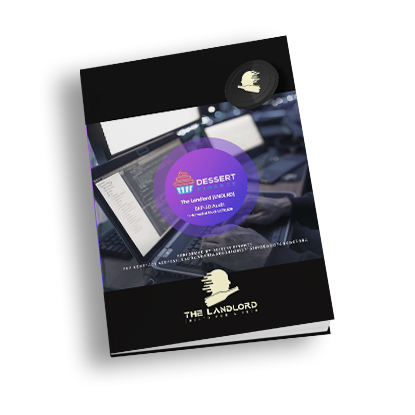
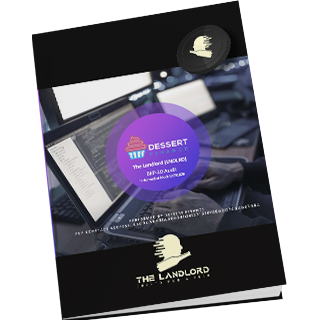
team

diff --git a/pages/team.jsx b/pages/team.jsx
@@ -1,0 +1,52 @@
+import Link from 'next/link';
+import HeadTag from '../components/HeadTag';
+import teamMembers from '../data/team';
+
+const Team = () => {
+	return (
+		<>
+			<HeadTag title={`Team`} />
+			<section className="page container">
+				<h1 className="page-title text-center">Team</h1>
+				<div className="page-desc page-desc-limit text-center">
+					The Landlord has a multi skilled team of technology professionals and successful businesses owners. They bring a wealth of experience, endless energy, ambition
+					and desire to the project.
+				</div>
+
+				<div className="row">
+					{teamMembers.map((item, index) => (
+						<div key={index} className="col-sm-6 col-md-4 col-lg-3">
+							<div className="team-item">
+								<img className="team-img" src={`/files/img/team/${item.img ? item.name.toLowerCase() : 'default'}.jpg`} alt={item.name + ' - The Landlord'} />
+								<h3 className="team-name">{item.name}</h3>
+								<p className="team-title">{item.title}</p>
+
+								<div className="team-social">
+									{item.twitter && (
+										<Link href={item.twitter}>
+											<a className="team-link" target="_blank" rel="noreferrer">
+												<svg xmlns="http://www.w3.org/2000/svg" width="16" height="16" fill="currentColor" viewBox="0 0 16 16">
+													<path d="M5.026 15c6.038 0 9.341-5.003 9.341-9.334 0-.14 0-.282-.006-.422A6.685 6.685 0 0 0 16 3.542a6.658 6.658 0 0 1-1.889.518 3.301 3.301 0 0 0 1.447-1.817 6.533 6.533 0 0 1-2.087.793A3.286 3.286 0 0 0 7.875 6.03a9.325 9.325 0 0 1-6.767-3.429 3.289 3.289 0 0 0 1.018 4.382A3.323 3.323 0 0 1 .64 6.575v.045a3.288 3.288 0 0 0 2.632 3.218 3.203 3.203 0 0 1-.865.115 3.23 3.23 0 0 1-.614-.057 3.283 3.283 0 0 0 3.067 2.277A6.588 6.588 0 0 1 .78 13.58a6.32 6.32 0 0 1-.78-.045A9.344 9.344 0 0 0 5.026 15z" />
+												</svg>
+											</a>
+										</Link>
+									)}
+									{item.linkedin && (
+										<Link href={item.linkedin}>
+											<a className="team-link" target="_blank" rel="noreferrer">
+												<svg xmlns="http://www.w3.org/2000/svg" width="16" height="16" fill="currentColor" viewBox="0 0 14 14">
+													<path d="M0.603938 4.80779H3.41678V13.2725H0.603938V4.80779ZM2.02919 0.727417C1.06647 0.727417 0.4375 1.35945 0.4375 2.18901C0.4375 3.00151 1.04806 3.65192 1.99237 3.65192H2.01031C2.99144 3.65192 3.60244 3.00148 3.60244 2.18901C3.58403 1.35945 2.99147 0.727417 2.02919 0.727417ZM10.3231 4.60895C8.83 4.60895 8.16109 5.4302 7.78794 6.00614V4.80779H4.97425C5.0115 5.60189 4.97425 13.2725 4.97425 13.2725H7.78794V8.54523C7.78794 8.29204 7.80634 8.03979 7.88037 7.85842C8.08409 7.35298 8.54703 6.82957 9.32356 6.82957C10.3424 6.82957 10.7493 7.60617 10.7493 8.74357V13.2725H13.5625V8.41867C13.5625 5.8187 12.1749 4.60895 10.3231 4.60895Z" />
+												</svg>
+											</a>
+										</Link>
+									)}
+								</div>
+							</div>
+						</div>
+					))}
+				</div>
+			</section>
+		</>
+	);
+};
+export default Team;

diff --git a/pages/audit.jsx b/pages/audit.jsx
@@ -1,25 +1,25 @@
 import Link from 'next/link';
 import HeadTag from '../components/HeadTag';
 
-const Whitepaper = () => {
+const Audit = () => {
 	return (
 		<>
-			<HeadTag title={`Whitepaper`} />
+			<HeadTag title={`Audit`} />
 			<section className="page page-whitepaper container">
 				<div className="row align-items-center my-auto text-center text-md-start">
 					<div className="col-md-6 mb-5 mb-md-0">
-						<h1 className="page-title">Whitepaper</h1>
-						<div className="page-desc">Download the latest version of our whitepaper.</div>
+						<h1 className="page-title">Audit</h1>
+						<div className="page-desc">The Landlord Token audit performed by Dessert Finance.</div>
 						<Link href="/">
 							<a className="btn btn-brand">Download</a>
 						</Link>
 					</div>
 					<div className="col-md-6 text-center">
-						<img className="page-whitepaper-img" width="320" height="320" src="/files/img/certs/whitepaper.png" alt="Landlord Whitepaper" />
+						<img className="page-whitepaper-img" width="320" height="320" src="/files/img/certs/audit.png" alt="Landlord Whitepaper" />
 					</div>
 				</div>
 			</section>
 		</>
 	);
 };
-export default Whitepaper;
+export default Audit;

diff --git a/data/team.jsx b/data/team.jsx
@@ -1,0 +1,54 @@
+const teamMembers = [
+	{
+		name: 'Fowler',
+		title: 'Co-Founder - Lead Dev',
+		twitter: 'https://twitter.com/',
+		linkedin: 'https://linkedin.com/in/jfowler1234',
+		img: true,
+	},
+	{
+		name: 'Fab',
+		title: 'Co-Founder - VP of Operations',
+		twitter: 'https://twitter.com/',
+		linkedin: 'https://linkedin.com/in/fabio-vincenti-5a99b614',
+		img: true,
+	},
+	{
+		name: 'Harry',
+		title: 'Crypto Analyst and Pub SME',
+		twitter: false,
+		linkedin: 'http://linkedin.com/in/harry-dennison-576458100',
+		img: true,
+	},
+	{
+		name: 'Adrian',
+		title: 'Director of Content',
+		twitter: 'https://twitter.com/adriancdesigns',
+		linkedin: 'http://linkedin.com/in/adrian-cliffe-46496820a',
+		img: true,
+	},
+	{
+		name: 'Alan',
+		title: 'Head of Logistics',
+		twitter: false,
+		linkedin: false,
+		img: true,
+	},
+
+	{
+		name: 'Alessandro Dunninio',
+		title: 'Community Manager',
+		twitter: 'https://twitter.com/alexdlish',
+		linkedin: false,
+		img: false,
+	},
+	{
+		name: 'Jimmy',
+		title: 'Chief Financial Officer',
+		twitter: 'https://twitter.com/SilverX2000',
+		linkedin: false,
+		img: false,
+	},
+];
+
+export default teamMembers;

diff --git a/assets/scss/pages/_team.scss b/assets/scss/pages/_team.scss
@@ -1,8 +1,9 @@
 .team {
 	&-list {
 	}
+
 	&-item {
-		margin-bottom: 4rem;
+		margin-top: 4rem;
 		text-align: center;
 	}
 	&-img {
@@ -18,9 +19,17 @@
 		font-size: 1.125rem;
 	}
 	&-title {
-		font-size: 0.875rem;
-		margin-bottom: 0.5rem;
+		font-size: 0.75rem;
+		opacity: 0.6;
+		margin-bottom: 0.25rem;
 	}
 	&-link {
+		opacity: 0.6;
+		&:first-child {
+			margin-right: 0.75rem;
+		}
+		&:hover {
+			opacity: 1;
+		}
 	}
 }

diff --git a/assets/scss/layout/_page.scss b/assets/scss/layout/_page.scss
@@ -1,3 +1,24 @@
 .page {
 	flex-grow: 1;
+	padding-top: 8rem;
+	padding-bottom: 8rem;
+
+	&-title {
+		font-weight: 800;
+		font-size: 3rem;
+		text-transform: capitalize;
+		color: inherit;
+	}
+
+	&-desc {
+		line-height: 1.7;
+		margin-bottom: 2.5rem;
+		color: #ccc;
+
+		&-limit {
+			width: 38rem;
+			max-width: 100%;
+			margin: 0 auto 0;
+		}
+	}
 }

diff --git a/assets/scss/main.scss b/assets/scss/main.scss
@@ -24,7 +24,6 @@
 @import 'sections/home/contract';
 @import 'sections/home/tokenomics';
 @import 'sections/home/pubs';
-@import 'sections/home/team';
 @import 'sections/home/beers';
 @import 'sections/home/store';
 @import 'sections/home/pos';
@@ -32,3 +31,4 @@
 
 @import 'pages/home';
 @import 'pages/whitepaper';
+@import 'pages/team';

diff --git a/assets/scss/pages/_whitepaper.scss b/assets/scss/pages/_whitepaper.scss
@@ -1,19 +1,4 @@
 .page-whitepaper {
-	padding-top: 8rem;
-	padding-bottom: 8rem;
-
-	&-title {
-		font-weight: 800;
-		font-size: 3rem;
-		text-transform: capitalize;
-		color: inherit;
-	}
-
-	&-desc {
-		line-height: 1.7;
-		margin-bottom: 2.5rem;
-	}
-
 	&-img {
 		filter: drop-shadow(15px 9px 24px rgba(0, 0, 0, 0.5));
 	}
